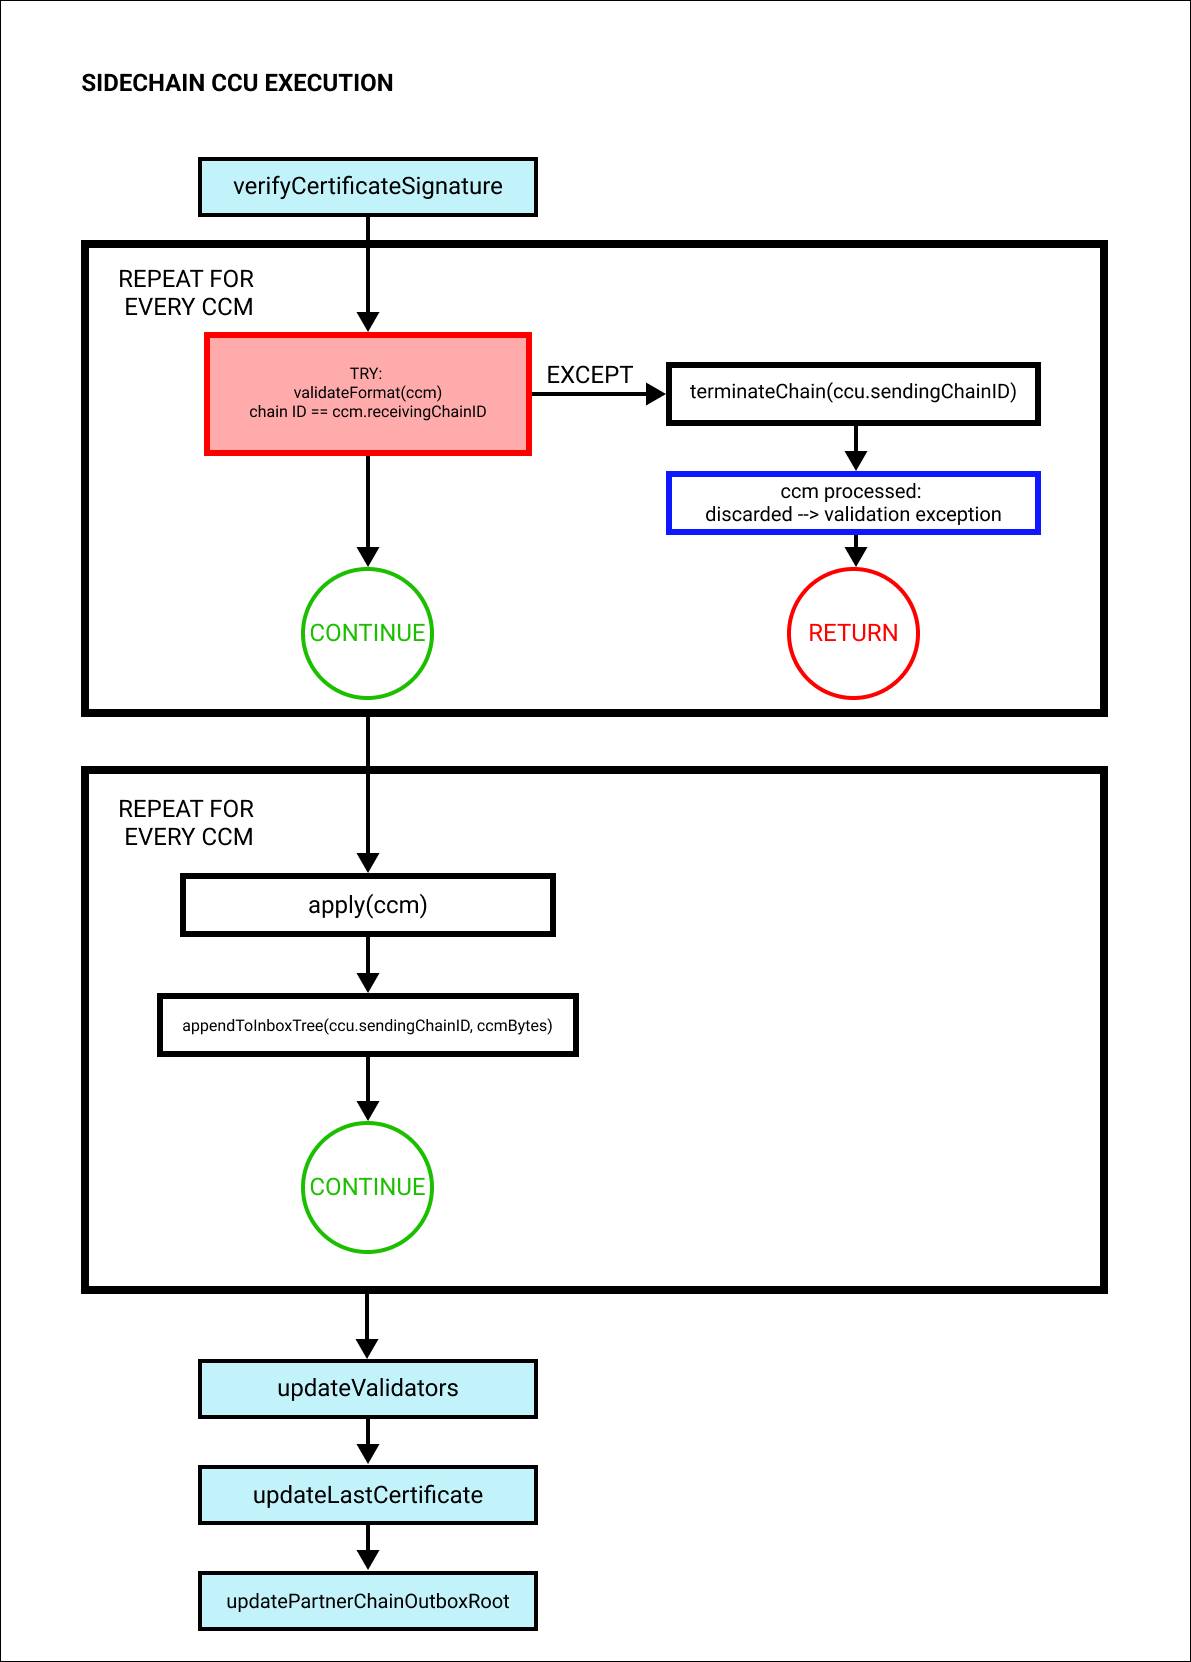
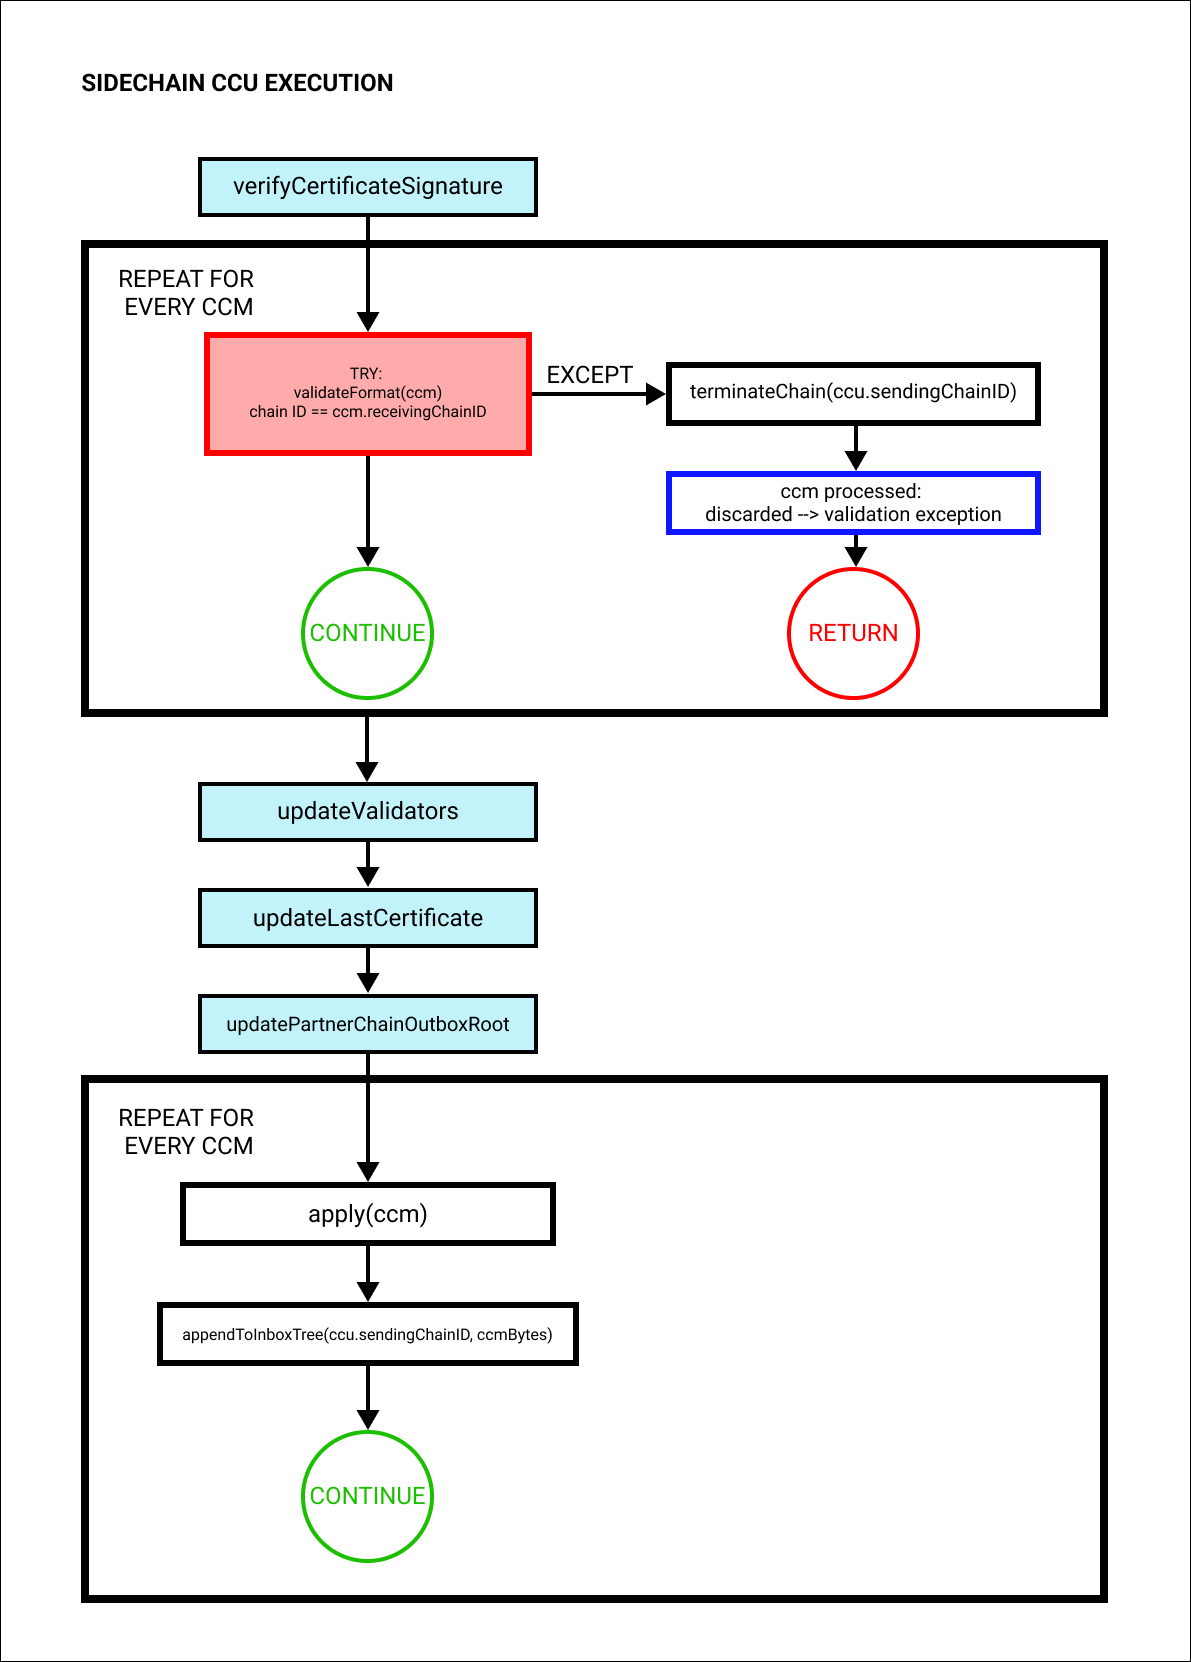
last fixes: channel terminated msg and certificate update in CCU

Changed region(s): [[0.0621, 0.4603, 0.932, 0.9819]]

diff --git a/proposals/lip-0053.md b/proposals/lip-0053.md
@@ -430,6 +430,9 @@ def execute(ccu: Transaction) -> None:
             # The CCM must come from the sending chain.
             if ccu.params.sendingChainID != ccm.sendingChainID:
                 raise Exception("CCM is not from the sending chain.")
+            # Sending and receiving chains must differ.
+            if ccm.receivingChainID == ccm.sendingChainID:
+                raise Exception("Sending and receiving chains must differ.") 
             if ccm.status == CCM_STATUS_CODE_CHANNEL_UNAVAILABLE:
                 raise Exception("CCM status channel unavailable can only be set on the mainchain.")
         except:
@@ -443,6 +446,17 @@ def execute(ccu: Transaction) -> None:
             )
             # In this case, we do not even update the chain account with the new certificate.
             return
+    
+    # Update sidechain validators.
+    if len(ccu.params.activeValidatorsUpdate) > 0 or ccu.params.certificateThreshold != validators(ccu.params.sendingChainID).certificateThreshold:
+        updateValidators(ccu)
+
+    # Update last certificate.
+    if len(ccu.params.certificate) > 0:
+        updateCertificate(ccu)
+
+    if ccu.params.inboxUpdate is not empty: # An empty object has all properties set to their default values.
+        updatePartnerChainOutboxRoot(ccu)
 
     for ccmBytes in crossChainMessages:
         ccm = decode(crossChainMessageSchema, ccmBytes)
@@ -460,17 +474,6 @@ def execute(ccu: Transaction) -> None:
         # it is still possible to recover it (because the channel terminated message
         # would refer to an inbox where the message has not been appended yet).
         appendToInboxTree(ccu.params.sendingChainID, ccmBytes)
-
-    # Update sidechain validators.
-    if len(ccu.params.activeValidatorsUpdate) > 0 or ccu.params.certificateThreshold != validators(ccu.params.sendingChainID).certificateThreshold:
-        updateValidators(ccu)
-
-    # Update last certificate.
-    if len(ccu.params.certificate) > 0:
-        updateCertificate(ccu)
-
-    if ccu.params.inboxUpdate is not empty: # An empty object has all properties set to their default values.
-        updatePartnerChainOutboxRoot(ccu)
 ```
 
 #### SidechainCrossChainUpdate
@@ -517,6 +520,7 @@ _Figure 2: A schematic of the steps of a sidechain CCU execution. Some details a
 def execute(ccu: Transaction) -> None:
     # Verify certificate signature. We do it here because if it fails, the transaction fails rather than being invalid.
     verifyCertificateSignature(ccu)
+
     # Process cross-chain messages in inbox update.
     crossChainMessages = ccu.params.inboxUpdate.crossChainMessages
 
@@ -529,6 +533,9 @@ def execute(ccu: Transaction) -> None:
             # The CCM must come be directed to the sidechain, unless it was bounced on the mainchain.
             if ownChainAccount.chainID != ccm.receivingChainID:
                 raise Exception("CCM is not directed to the sidechain.")
+            # Sending and receiving chains must differ.
+            if ccm.receivingChainID == ccm.sendingChainID:
+                raise Exception("Sending and receiving chains must differ.")
         except:
             terminateChain(ccu.params.sendingChainID)
             ccmID = sha256(ccmBytes)
@@ -540,12 +547,7 @@ def execute(ccu: Transaction) -> None:
             )
             # In this case, we do not even update the chain account with the new certificate.
             return
-
-    for ccmBytes in crossChainMessages:
-        ccm = decode(crossChainMessageSchema, ccmBytes)
-        apply(ccu, ccm)
-        appendToInboxTree(ccu.params.sendingChainID, ccmBytes)
-
+    
     # Update sidechain validators.
     if len(ccu.params.activeValidatorsUpdate) > 0 or ccu.params.certificateThreshold != validators(ccu.params.sendingChainID).certificateThreshold:
         updateValidators(ccu)
@@ -556,6 +558,11 @@ def execute(ccu: Transaction) -> None:
 
     if ccu.params.inboxUpdate is not empty: # An empty object has all properties set to their default values.
         updatePartnerChainOutboxRoot(ccu)
+
+    for ccmBytes in crossChainMessages:
+        ccm = decode(crossChainMessageSchema, ccmBytes)
+        apply(ccu, ccm)
+        appendToInboxTree(ccu.params.sendingChainID, ccmBytes)
 ```
 
 ## Backwards Compatibility

diff --git a/proposals/lip-0045.md b/proposals/lip-0045.md
@@ -185,6 +185,7 @@ In this section, we specify the substores that are part of the Interoperability 
 | `CCM_SENT_FAILED_CODE_MESSAGE_FEE_EXCEPTION` | uint32 | 11 | Value of `code` of CCM Sent Failed Event if sending failed due to the fee payment failing. |
 | `CCM_SENT_FAILED_CODE_INVALID_PARAMS` | uint32 | 12 | Value of `code` of CCM Sent Failed Event if sending failed due to invalid params property. |
 | `CCM_SENT_FAILED_CODE_INVALID_FORMAT` | uint32 | 13 | Value of `code` of CCM Sent Failed Event if sending failed due to invalid message format. |
+| `CCM_SENT_FAILED_CODE_INVALID_RECEIVING_CHAIN` | uint32 | 14 | Value of `code` of CCM Sent Failed Event if sending failed due to invalid receiving chain. |
 | **Chain Status** | | | |
 | `CHAIN_STATUS_REGISTERED` | uint32 | 0 | Chain registered status. |
 | `CHAIN_STATUS_ACTIVE` | uint32 | 1 | Chain active status. |
@@ -760,6 +761,16 @@ def sendInternal(sendingAddress: Address,
     params: object
 ) -> None:
 
+    # Not possible to send messages to the own chain.
+    if receivingChainID == ownChainAccount.chainID:
+        emitPersistentEvent(
+            module = MODULE_NAME_INTEROPERABILITY,
+            name = EVENT_NAME_CCM_SENT_FAILED,
+            data = {"ccm": ccm, "code": CCM_SENT_FAILED_CODE_INVALID_RECEIVING_CHAIN},
+            topics = []
+        )
+        raise Exception("Sending chain cannot be the receiving chain.")
+
     ccm = {
         "nonce": ownChainAccount.nonce,
         "module": module,
@@ -875,10 +886,7 @@ def terminateChain(chainID: ChainID) -> None:
         chainID,
         0,
         CCM_STATUS_CODE_OK,
-        {
-            "nonce": chainAccount(chainID).nonce,
-            "status": CHAIN_STATUS_TERMINATED
-        }
+        { "inboxSize": channel(chainID).inbox.size }
     )
 
     createTerminatedStateAccount(chainID)
@@ -1222,7 +1230,7 @@ The data property follows the `terminatedOutboxAccountSchema` schema given [abov
 
 #### send
 
-The `send` function is used to create and add a message to the outbox of a partner chain. The ccm status is automatically set to `CCM_STATUS_CODE_OK`.
+The `send` function is used to create and add a message to the outbox of a partner chain. The ccm status is automatically set to `CCM_STATUS_OK`.
 
 ```python
 def send(sendingAddress: Address,
@@ -1239,7 +1247,7 @@ def send(sendingAddress: Address,
         crossChainCommand,
         receivingChainID,
         fee,
-        CCM_STATUS_CODE_OK,
+        CCM_STATUS_OK,
         ccm.params
     )
 ```

diff --git a/proposals/lip-0049.md b/proposals/lip-0049.md
@@ -423,7 +423,7 @@ The channel terminated message is a CCM with:
 * `module = MODULE_NAME_INTEROPERABILITY`,
 * `crossChainCommand = CROSS_CHAIN_COMMAND_CHANNEL_TERMINATED`.
 
-The role of the channel terminated message is to inform chains that their chain account has been terminated on the mainchain.
+The role of the channel terminated message is to inform chains that their chain account has been terminated on another chain.
 
 ##### Parameters
 
@@ -432,23 +432,17 @@ The `params` schema for the channel terminated CCM is:
 ```java
 channelTerminatedCCMParamsSchema = {
     "type": "object",
-    "required": ["stateRoot", "inboxSize"],
+    "required": ["inboxSize"],
     "properties": {
-        "stateRoot": {
-            "dataType": "bytes",
-            "length": HASH_LENGTH,
-            "fieldNumber": 1
-        },
         "inboxSize": {
             "dataType": "uint32",
-            "fieldNumber": 2
+            "fieldNumber": 1
         }
     }
 }
 ```
 
-* `stateRoot`: last state root of the terminated sidechain,
-* `inboxSize`: size of the channel inbox on the terminated chain.
+* `inboxSize`: size of the channel inbox of the terminated chain.
 
 ##### Creation
 
@@ -459,9 +453,9 @@ A channel terminated message is created by the Interoperability module when [ter
 ```python
 def execute(ccu: Transaction, ccm: CCM) -> None:
     if isLive(ccm.sendingChainID):
-        createTerminatedStateAccount(ccm.sendingChainID, ccm.params.stateRoot)
+        createTerminatedStateAccount(ccm.sendingChainID)
         createTerminatedOutboxAccount(
-            ccm.sendinChainID,
+            ccm.sendingChainID,
             channel(ccm.params.chainID).outbox.root,
             channel(ccm.params.chainID).outbox.size,
             ccm.params.inboxSize
